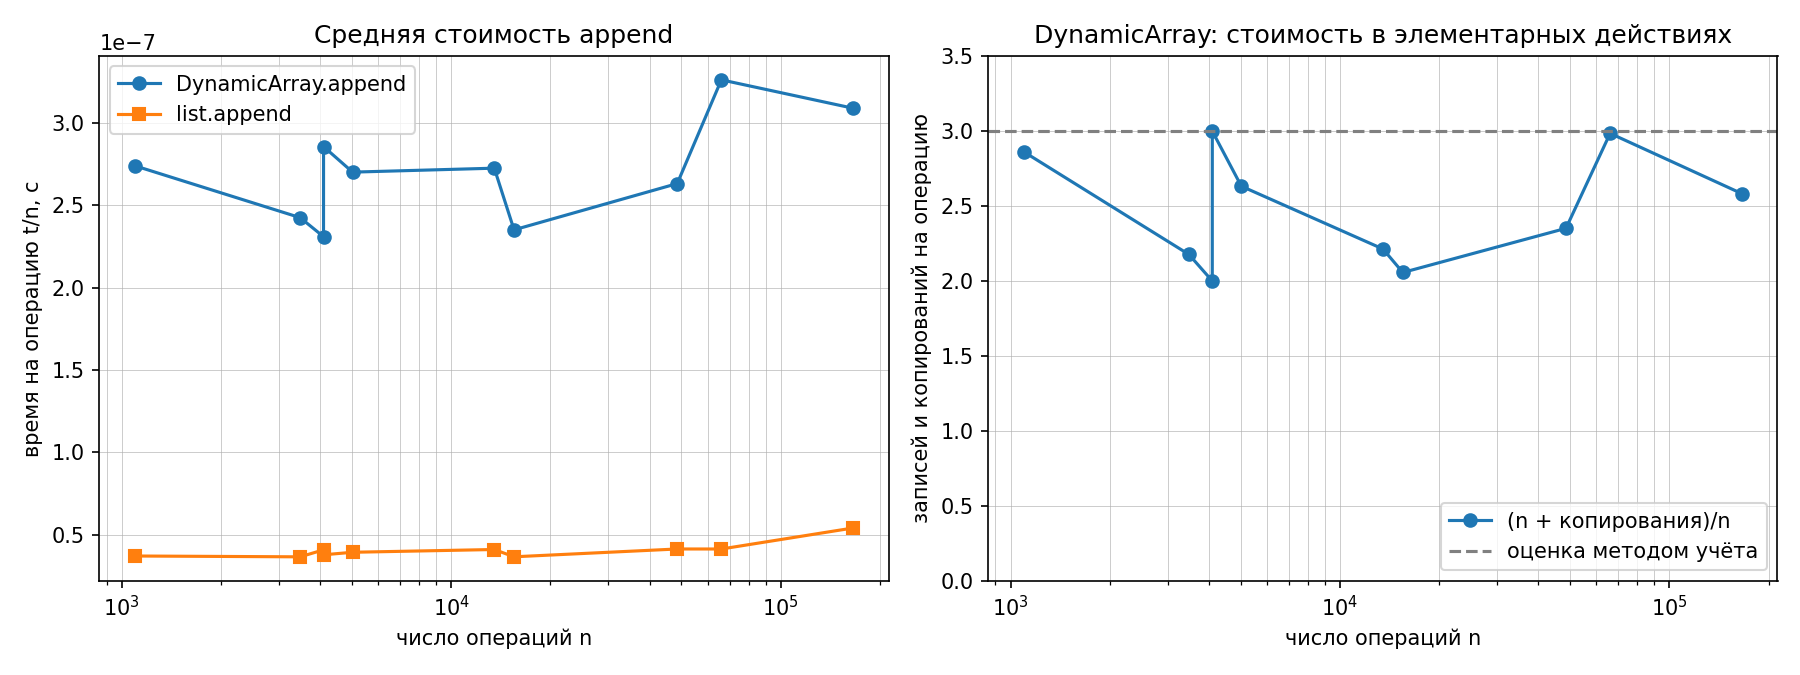
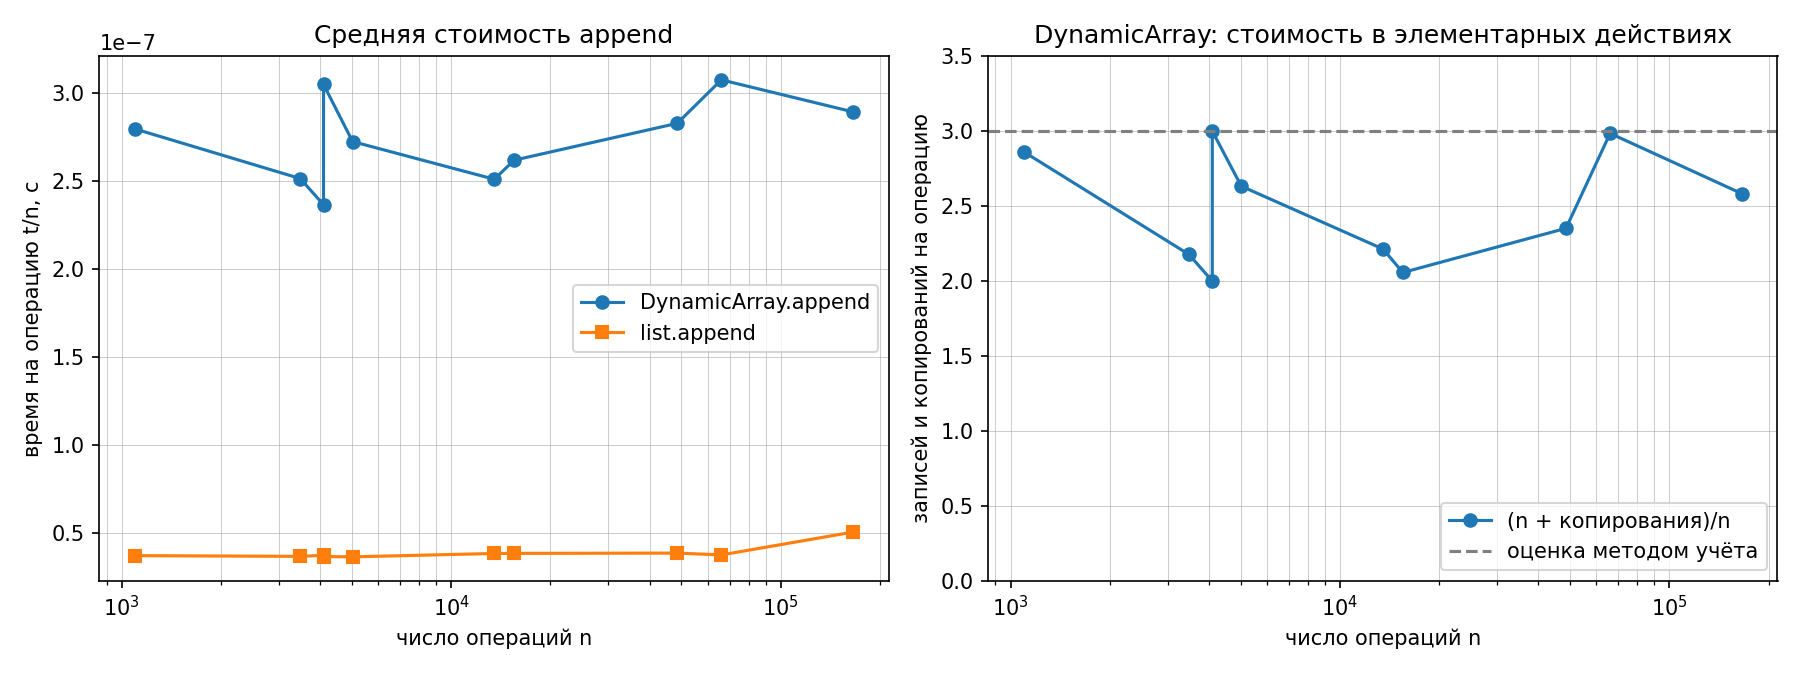
new test plus fixes

diff --git a/M1-intro-and-basic-structures/attachments/lab02-recursion-structures-starter.py b/M1-intro-and-basic-structures/attachments/lab02-recursion-structures-starter.py
@@ -60,7 +60,7 @@ CALLS = {"fib_naive": 0, "fib_memo": 0}  # счётчики рекурсивны
 
 
 def factorial(n: int) -> int:
-    """Факториал n >= 0 рекурсивно. Ожидаемая сложность: TODO (обосновать в отчёте)."""
+    """Факториал n >= 0 рекурсивно. Ожидаемая сложность: O(n)"""
     if not isinstance(n, int):
         raise TypeError(f"[ERROR]: n should be int, got {type(n).__name__} instead")
     if n < 0:
@@ -75,7 +75,7 @@ def factorial(n: int) -> int:
 def fib_naive(n: int) -> int:
     """n-е число Фибоначчи наивной рекурсией; увеличивает CALLS["fib_naive"].
 
-    Ожидаемая сложность: TODO (экспоненциальная — показать счётчиком вызовов).
+    Ожидаемая сложность: O(2^n)
     """
     CALLS["fib_naive"] += 1
 
@@ -88,7 +88,7 @@ def fib_naive(n: int) -> int:
 def fib_memo(n: int, memo: dict[int, int] | None = None) -> int:
     """n-е число Фибоначчи с мемоизацией; увеличивает CALLS["fib_memo"].
 
-    Ожидаемая сложность: TODO (линейная — сравнить счётчики в отчёте).
+    Ожидаемая сложность: O(n)
     """
     CALLS["fib_memo"] += 1
 

diff --git a/M1-intro-and-basic-structures/attachments/lab02_report.md b/M1-intro-and-basic-structures/attachments/lab02_report.md
@@ -23,4 +23,19 @@ ___
     C:\Users\Alexey\PycharmProjects\data-structures-and-algorithms\data\generated\ops_append_sizes.txt
     Паспорт данных: C:\Users\Alexey\PycharmProjects\data-structures-and-algorithms\data\generated\manifest.json
 
-2. 
+2. Реализован алгоритм `factorial`. Временная сложность: `O(n)`, так как выполняется `n` рекурсивных шагов, каждый из которых содержит `O(1)` операций.
+3. Реализован алгоритм `fib_naive`. Временная сложность: `O(2^n)`, потому что с каждым рекурсивным шагом происходит ветвление на 2 новых рекурсивных шага `fib_naive(n - 1) + fib_naive(n - 2)`.
+4. Реализован алгоритм `fib_memo`. Временная сложность: `O(n)`. 
+```bash
+n= 5  F(n)=     5  fib_naive:      15 вызовов  fib_memo:  9 вызовов
+n=10  F(n)=    55  fib_naive:     177 вызовов  fib_memo: 19 вызовов
+n=15  F(n)=   610  fib_naive:    1973 вызовов  fib_memo: 29 вызовов
+n=20  F(n)=  6765  fib_naive:   21891 вызовов  fib_memo: 39 вызовов
+n=25  F(n)= 75025  fib_naive:  242785 вызовов  fib_memo: 49 вызовов
+n=30  F(n)=832040  fib_naive: 2692537 вызовов  fib_memo: 59 вызовов
+```
+В алгоритме с мемоизацией начиная с `n = 5` при возрастании `n` на `5` число вызовов линейно растет на `10`.
+В алгоритме без мемоизации (наивная реализация) при возрастании `n` на `5` число вызовов растет примерно в 11 раз.
+Это соответствует экспоненциальному росту. Это объясняется тем, что каждый неконцевой вызов порождает два рекурсивных вызова, а одинаковые подзадачи вычисляются многократно.
+
+5. Реализован алгоритм Ханойских башен с подсчётом и записью перемещений (`hanoi`). 
